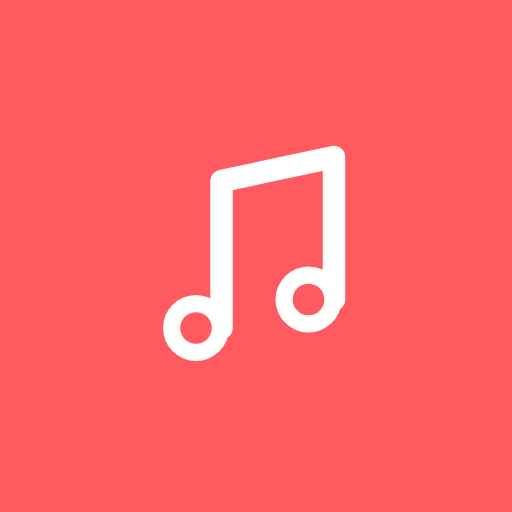
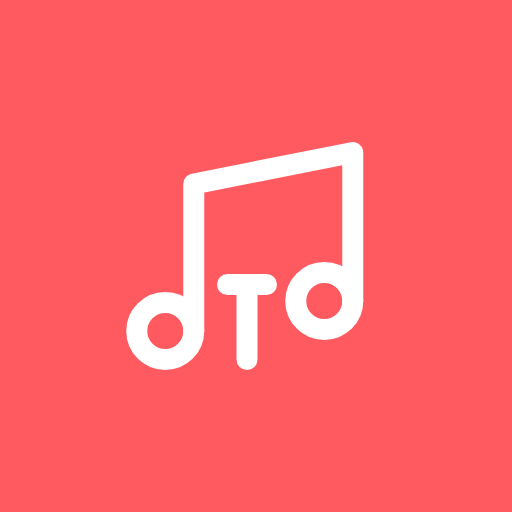
Align the O note heads with the stems and add a T between them
Claude-Session: https://claude.ai/code/session_0146R8t96rciX1hUgaQudyCC

Changed region(s): [[0.2188, 0.2812, 0.7188, 0.75]]

diff --git a/sw.js b/sw.js
@@ -1,5 +1,5 @@
 // アプリ本体をキャッシュしてオフラインでも起動できるようにする(音声データは IndexedDB 側)
-const CACHE = 'oto-v8';
+const CACHE = 'oto-v9';
 const ASSETS = [
   './', 'index.html', 'style.css', 'manifest.webmanifest',
   'js/app.js', 'js/player.js', 'js/db.js', 'js/tags.js', 'js/fx.js', 'js/sync.js', 'js/config.js',
